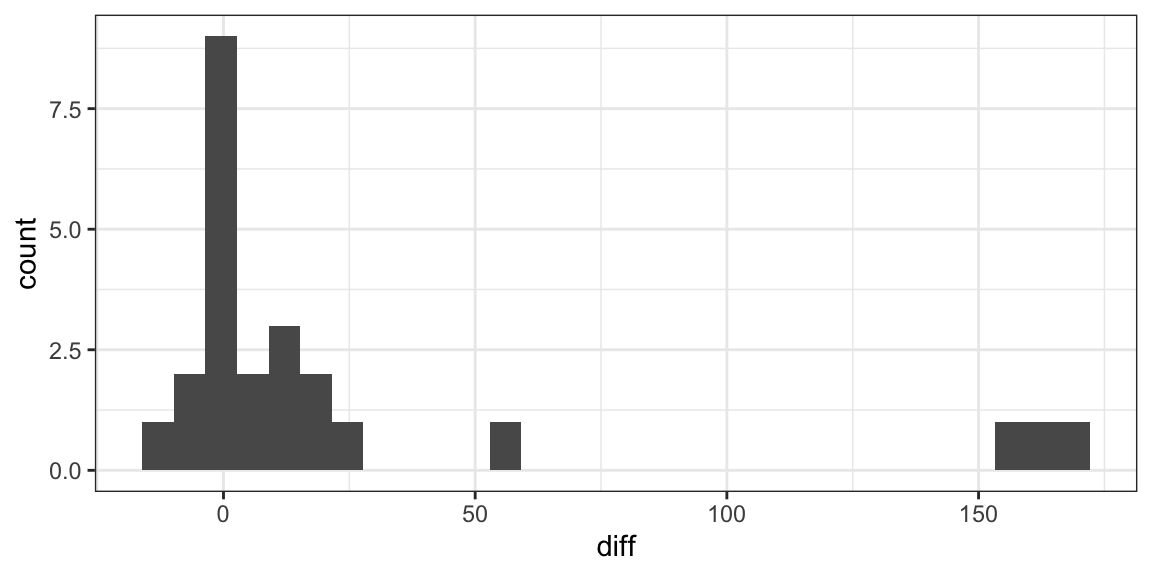
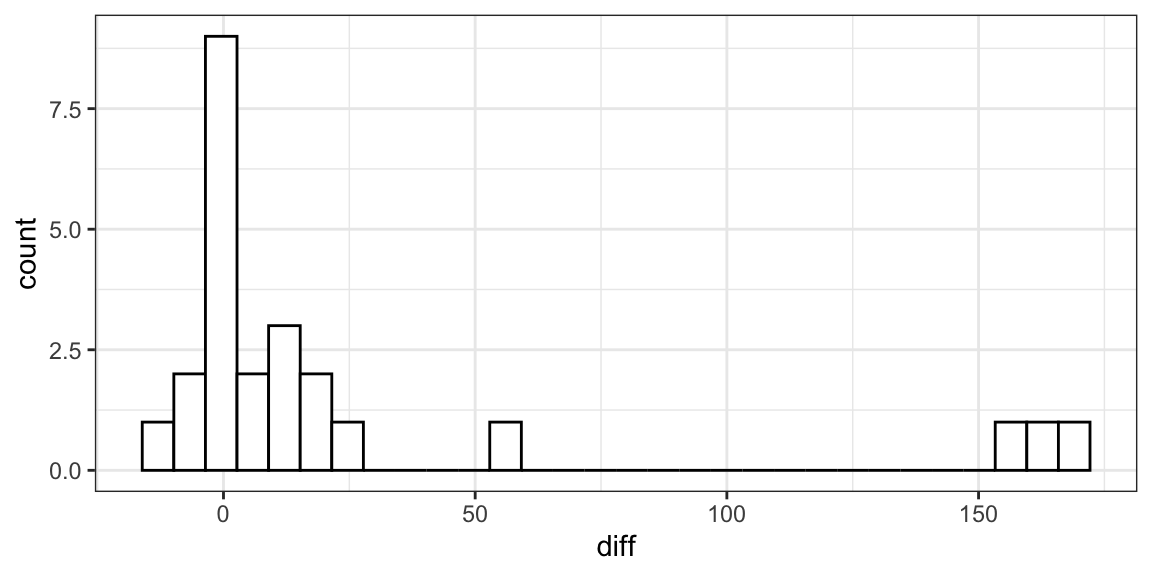
spell check

Changed region(s): [[0.125, 0.0625, 0.9688, 0.8438]]

diff --git a/docs/06_ch4/06_ch4.html b/docs/06_ch4/06_ch4.html
@@ -9,7 +9,7 @@
 <meta name="author" content="David Gerard">
 <meta name="dcterms.date" content="2026-07-08">
 
-<title>Non-parameteric Alternatives to t-tools – Stat 302: Intermediate Statistics</title>
+<title>Non-parametric Alternatives to t-tools – Stat 302: Intermediate Statistics</title>
 <style>
 /* Default styles provided by pandoc.
 ** See https://pandoc.org/MANUAL.html#variables-for-html for config info.
@@ -229,7 +229,7 @@ window.Quarto = {
 
 <header id="title-block-header" class="quarto-title-block default">
 <div class="quarto-title">
-<h1 class="title">Non-parameteric Alternatives to <span class="math inline">\(t\)</span>-tools</h1>
+<h1 class="title">Non-parametric Alternatives to <span class="math inline">\(t\)</span>-tools</h1>
 </div>
 
 
@@ -266,9 +266,9 @@ window.Quarto = {
 <section id="learning-objectives" class="level1">
 <h1>Learning Objectives</h1>
 <ul>
-<li>Recognize which non-parameteric method to use in one- and two-sample scenarios.</li>
-<li>Understand the mechanims of these non-parameteric methods.</li>
-<li>Implement these non-parameteric methods in R.</li>
+<li>Recognize which non-parametric method to use in one- and two-sample scenarios.</li>
+<li>Understand the mechanisms of these non-parametric methods.</li>
+<li>Implement these non-parametric methods in R.</li>
 </ul>
 </section>
 <section id="assumptions-of-t-tools" class="level1">
@@ -280,17 +280,17 @@ window.Quarto = {
 <li>Equal variance (if assuming <span class="math inline">\(\sigma_1^2 = \sigma_2^2\)</span>).</li>
 <li>Normality (no severe skew or outliers).</li>
 </ol></li>
-<li>Solutions when violated:</li>
-</ul>
+<li>Solutions when violated:
 <ol type="1">
 <li>Independence: Use multiple linear regression for cluster effects, or use serial correlation adjustment methods (Chapter 15).</li>
 <li>Equal variance: Use Welch’s <span class="math inline">\(t\)</span>-test (which I think you should always use anyway).</li>
 <li>Normality: This chapter.
 <ul>
-<li>Use a Wilcoxon rank sum test for an 2-sample <span class="math inline">\(t\)</span>-test alternative.</li>
+<li>Use a Wilcoxon rank sum test for a 2-sample <span class="math inline">\(t\)</span>-test alternative.</li>
 <li>Use a Wilcoxon signed-rank test for a paired <span class="math inline">\(t\)</span>-test alternative.</li>
 </ul></li>
-</ol>
+</ol></li>
+</ul>
 </section>
 <section id="case-study" class="level1">
 <h1>Case Study</h1>
@@ -334,7 +334,7 @@ $ Censored  &lt;dbl&gt; 0, 0, 0, 0, 0, 0, 0, 0, 0, 0, 0, 0, 0, 0, 0, 0, 0, 0, 0,
 <h2 class="anchored" data-anchor-id="main-idea">Main Idea</h2>
 <ul>
 <li><p>Also called the Mann-Whitney <span class="math inline">\(U\)</span>-test.</p></li>
-<li><p>Non-parameteric alternative to the two-sample <span class="math inline">\(t\)</span>-test</p>
+<li><p>Non-parametric alternative to the two-sample <span class="math inline">\(t\)</span>-test</p>
 <ul>
 <li>Use when normality is violated</li>
 <li>Can use on Ordinal Data</li>
@@ -385,7 +385,7 @@ $ Censored  &lt;dbl&gt; 0, 0, 0, 0, 0, 0, 0, 0, 0, 0, 0, 0, 0, 0, 0, 0, 0, 0, 0,
 <li><p>For large <span class="math inline">\(n\)</span> (say, each group has a sample size of at least 5 and there aren’t too many ties), <span class="math inline">\(R \sim N(\mu_R, \sigma_R^2)\)</span> <strong>if <span class="math inline">\(H_0\)</span> is true</strong>.</p>
 <ul>
 <li><p><span class="math inline">\(\mu_R\)</span> and <span class="math inline">\(\sigma_R^2\)</span> are some known values that depend just on the number of observations <span class="math inline">\(n\)</span></p></li>
-<li><p>Thus, if <span class="math inline">\(H_0\)</span> is true, <span class="math inline">\(Z = (R - \mu_R) / \sigma_r \sim N(0, 1)\)</span></p></li>
+<li><p>Thus, if <span class="math inline">\(H_0\)</span> is true, <span class="math inline">\(Z = (R - \mu_R) / \sigma_R \sim N(0, 1)\)</span></p></li>
 <li><p>Calculate the tail area probability of <span class="math inline">\(Z\)</span>.</p>
 <div class="cell" data-layout-align="center">
 <div class="cell-output-display">
@@ -405,7 +405,7 @@ $ Censored  &lt;dbl&gt; 0, 0, 0, 0, 0, 0, 0, 0, 0, 0, 0, 0, 0, 0, 0, 0, 0, 0, 0,
 <i class="callout-icon"></i>
 </div>
 <div class="callout-title-container flex-fill">
-<span class="screen-reader-only">Warning</span>Unneccesary detail
+<span class="screen-reader-only">Warning</span>Unnecessary detail
 </div>
 </div>
 <div class="callout-body-container callout-body">
@@ -621,7 +621,7 @@ Z = \frac{40.5 - 35}{\sqrt{43.84}} = 0.83
 </div>
 <p>Some comments:</p>
 <ol type="1">
-<li><p>The rank-sum statistic is different than the one we calculated because they subtract the minimum rank-sum statistic value <code>sum(1:5)</code> (the minimum possible, if all advanced students scored below all introductory students).</p>
+<li><p>The rank-sum statistic is different from the one we calculated because they subtract the minimum rank-sum statistic value <code>sum(1:5)</code> (the minimum possible, if all advanced students scored below all introductory students).</p>
 <div class="cell" data-layout-align="center">
 <div class="code-copy-outer-scaffold"><div class="sourceCode cell-code" id="cb19"><pre class="sourceCode r code-with-copy"><code class="sourceCode r"><span id="cb19-1"><a href="#cb19-1" aria-hidden="true" tabindex="-1"></a><span class="fl">40.5</span> <span class="sc">-</span> <span class="fu">sum</span>(<span class="dv">1</span><span class="sc">:</span><span class="dv">5</span>)</span></code></pre></div><button title="Copy to Clipboard" class="code-copy-button"><i class="bi"></i></button></div>
 <div class="cell-output cell-output-stdout">
@@ -773,7 +773,7 @@ $ shuffled_treatment &lt;chr&gt; "Modified", "Modified", "Conventional", "Modifi
 <li><p>Hypothesis: infants breastfed for at least one month may gain some immunity, resulting in shorter effusion than bottle-fed infants.</p></li>
 <li><p>The study pairs 24 infants matched by age, sex, socioeconomic status, and medications—one breastfed, one bottle-fed per pair.</p></li>
 <li><p>Outcome measured: duration of middle-ear effusion after the first otitis media episode.</p></li>
-<li><p>The data, from Table 9.11 of Rosner’s <em>Fundamentals of Biostatistics (Eights Edition)</em>, can be read into R with</p>
+<li><p>The data, from Table 9.11 of Rosner’s <em>Fundamentals of Biostatistics (Eighth Edition)</em>, can be read into R with</p>
 <div class="cell" data-layout-align="center">
 <div class="code-copy-outer-scaffold"><div class="sourceCode cell-code" id="cb29"><pre class="sourceCode r code-with-copy"><code class="sourceCode r"><span id="cb29-1"><a href="#cb29-1" aria-hidden="true" tabindex="-1"></a>effusion <span class="ot">&lt;-</span> <span class="fu">tribble</span>(</span>
 <span id="cb29-2"><a href="#cb29-2" aria-hidden="true" tabindex="-1"></a>  <span class="sc">~</span>pair, <span class="sc">~</span>breastfed, <span class="sc">~</span>bottle_fed,</span>
@@ -809,10 +809,10 @@ $ shuffled_treatment &lt;chr&gt; "Modified", "Modified", "Conventional", "Modifi
 <span id="cb30-2"><a href="#cb30-2" aria-hidden="true" tabindex="-1"></a>  <span class="fu">mutate</span>(<span class="at">diff =</span> bottle_fed <span class="sc">-</span> breastfed) <span class="ot">-&gt;</span></span>
 <span id="cb30-3"><a href="#cb30-3" aria-hidden="true" tabindex="-1"></a>  effusion</span></code></pre></div><button title="Copy to Clipboard" class="code-copy-button"><i class="bi"></i></button></div>
 </div></li>
-<li><p>Plotting the differences, it looks like there are some extreme outliers. There appears to be two bottle-fed babies that had a very long duration of middle-ear effusion.</p>
+<li><p>Plotting the differences, it looks like there are some extreme outliers. There appear to be three bottle-fed babies that had a very long duration of middle-ear effusion.</p>
 <div class="cell" data-layout-align="center">
 <div class="code-copy-outer-scaffold"><div class="sourceCode cell-code" id="cb31"><pre class="sourceCode r code-with-copy"><code class="sourceCode r"><span id="cb31-1"><a href="#cb31-1" aria-hidden="true" tabindex="-1"></a><span class="fu">ggplot</span>(effusion, <span class="fu">aes</span>(<span class="at">x =</span> diff)) <span class="sc">+</span></span>
-<span id="cb31-2"><a href="#cb31-2" aria-hidden="true" tabindex="-1"></a>  <span class="fu">geom_histogram</span>(<span class="at">bins =</span> <span class="dv">30</span>)</span></code></pre></div><button title="Copy to Clipboard" class="code-copy-button"><i class="bi"></i></button></div>
+<span id="cb31-2"><a href="#cb31-2" aria-hidden="true" tabindex="-1"></a>  <span class="fu">geom_histogram</span>(<span class="at">bins =</span> <span class="dv">30</span>, <span class="at">color =</span> <span class="st">"black"</span>, <span class="at">fill =</span> <span class="st">"white"</span>)</span></code></pre></div><button title="Copy to Clipboard" class="code-copy-button"><i class="bi"></i></button></div>
 <div class="cell-output-display">
 <div class="quarto-figure quarto-figure-center">
 <figure class="figure">
@@ -835,13 +835,13 @@ $ shuffled_treatment &lt;chr&gt; "Modified", "Modified", "Conventional", "Modifi
 </div>
 </div>
 </div></li>
-<li><p>Quite honestly, it might not be that bad to do a <span class="math inline">\(t\)</span>-test on the log-ratio. It appears perhaps too skewed, so I might worry a little. But we’ll try the alternative non-parameteric approach.</p></li>
+<li><p>Quite honestly, it might not be that bad to do a <span class="math inline">\(t\)</span>-test on the log-ratio. It appears perhaps too skewed, so I might worry a little. But we’ll try the alternative non-parametric approach.</p></li>
 </ul>
 </section>
 <section id="main-idea-1" class="level2">
 <h2 class="anchored" data-anchor-id="main-idea-1">Main idea:</h2>
 <ul>
-<li><p>The Wilcoxon signed-rank test is a non-parameteric alternative to the paired (one-sample) <span class="math inline">\(t\)</span>-test.</p></li>
+<li><p>The Wilcoxon signed-rank test is a non-parametric alternative to the paired (one-sample) <span class="math inline">\(t\)</span>-test.</p></li>
 <li><p>Assume data are symmetric (we’ll get back to this), but not necessarily normal (e.g., lots of outliers are possible).</p></li>
 <li><p>Then we want to test</p>
 <ul>
@@ -851,7 +851,7 @@ $ shuffled_treatment &lt;chr&gt; "Modified", "Modified", "Conventional", "Modifi
 </ul></li>
 <li><span class="math inline">\(H_A:\)</span> Median difference is non-zero</li>
 </ul></li>
-<li><p>The idea is almost the very similar as the Wilcoxon rank-sum test with two differences:</p>
+<li><p>The idea is very similar to the Wilcoxon rank-sum test, with two differences:</p>
 <ol type="1">
 <li>Rank the absolute values</li>
 <li>Add up ranks of one of the signs.</li>
@@ -859,7 +859,7 @@ $ shuffled_treatment &lt;chr&gt; "Modified", "Modified", "Conventional", "Modifi
 </ul>
 <p><img src="./06_figures/display_45_sign.svg" class="img-fluid" alt="Graphical display of calculation for signed-rank statistic">&nbsp;</p>
 <ul>
-<li><p>If the null is true and the median is 0, then <span class="math inline">\(R \sim N(\mu_R, \sigma_R^2\)</span> where <span class="math display">\[
+<li><p>If the null is true and the median is 0, then <span class="math inline">\(R \sim N(\mu_R, \sigma_R^2)\)</span> where <span class="math display">\[
 \mu_R = \frac{n(n+1)}{4}\\
 \sigma_R^2 = \frac{n(n+1)(2n+1)}{24}
 \]</span></p></li>
@@ -1428,7 +1428,7 @@ Z = \frac{R - \mu_R}{\sigma_R} \sim N(0,1)
 </div>
 </div>
 </div>
-<p>Calculate the rank-sum statistic.</p>
+<p>Calculate the signed-rank statistic.</p>
 </div>
 <div id="tabset-5-2" class="tab-pane" role="tabpanel" aria-labelledby="tabset-5-2-tab">
 <p>Rearranging, we get this table:</p>
@@ -2010,7 +2010,7 @@ Z = \frac{R - \mu_R}{\sigma_R} \sim N(0,1)
 1        7       231  0.0181        1        30 Wilcoxon signed ran… two.sided  </code></pre>
 </div>
 </div></li>
-<li><p>Thus, under the assumption of symmetry, we have evidence that breast feeding typically has shorter mid-ear effusion durations than formula babies (<span class="math inline">\(p\)</span> = 0.018). We estimate the median duration to be 7 days shorter for breastfed babies, with a 95% confidence interval of 1 day shorter to 30 days shorter.</p></li>
+<li><p>Thus, under the assumption of symmetry, we have evidence that breastfed babies typically have shorter mid-ear effusion durations than formula-fed babies (<span class="math inline">\(p\)</span> = 0.018). We estimate the median duration to be 7 days shorter for breastfed babies, with a 95% confidence interval of 1 day shorter to 30 days shorter.</p></li>
 </ul>
 <div class="tabset-margin-container"></div><div class="panel-tabset">
 <ul class="nav nav-tabs" role="tablist"><li class="nav-item" role="presentation"><a class="nav-link active" id="tabset-6-1-tab" data-bs-toggle="tab" data-bs-target="#tabset-6-1" role="tab" aria-controls="tabset-6-1" aria-selected="true" href="">Exercise</a></li><li class="nav-item" role="presentation"><a class="nav-link" id="tabset-6-2-tab" data-bs-toggle="tab" data-bs-target="#tabset-6-2" role="tab" aria-controls="tabset-6-2" aria-selected="false" href="">Solution</a></li></ul>
@@ -2051,7 +2051,7 @@ Z = \frac{R - \mu_R}{\sigma_R} \sim N(0,1)
 <section id="when-symmetry-is-violated" class="level2">
 <h2 class="anchored" data-anchor-id="when-symmetry-is-violated">When symmetry is violated</h2>
 <ul>
-<li><p>If you are randomly assigning treatments to pairs of units (e.g., if we would have randomly assigned which baby in a pair gets formula and which gets breast feeding), then the differences under the null are theoretically symmetric about 0. See Section 6.10 of <span class="citation" data-cites="lehmann2005testing">Lehmann and Romano (<a href="#ref-lehmann2005testing" role="doc-biblioref">2005</a>)</span> (I am including a reference because I don’t think this is often taught).</p></li>
+<li><p>If you are randomly assigning treatments to pairs of units (e.g., if we had randomly assigned which baby in a pair gets formula and which gets breast milk), then the differences under the null are theoretically symmetric about 0. See Section 6.10 of <span class="citation" data-cites="lehmann2005testing">Lehmann and Romano (<a href="#ref-lehmann2005testing" role="doc-biblioref">2005</a>)</span> (I am including a reference because I don’t think this is often taught).</p></li>
 <li><p>Thus, under randomized experiments, hypotheses are:</p>
 <ul>
 <li><span class="math inline">\(H_0:\)</span> No treatment effect</li>
@@ -2059,7 +2059,7 @@ Z = \frac{R - \mu_R}{\sigma_R} \sim N(0,1)
 </ul></li>
 <li><p>Thus, under random assignment in paired designs, the Wilcoxon signed-rank test exactly tests for what we are interested in.</p></li>
 <li><p>In observational studies, if symmetry is violated, the Wilcoxon signed-rank test actually tests the null that the <em>pseudomedian</em> is 0 versus the alternative that it is non-zero.</p></li>
-<li><p>The <strong>pseudomedian</strong> is the median of the distribution of <span class="math inline">\((X_1 + X_2)/2\)</span> where <span class="math inline">\(X_1\)</span> and <span class="math inline">\(X_2\)</span> are drawn indpendently from the original distribution.</p></li>
+<li><p>The <strong>pseudomedian</strong> is the median of the distribution of <span class="math inline">\((X_1 + X_2)/2\)</span> where <span class="math inline">\(X_1\)</span> and <span class="math inline">\(X_2\)</span> are drawn independently from the original distribution.</p></li>
 <li><p>If the distribution is symmetric, then the pseudomedian is the same as the median. Under skew, they differ.</p></li>
 <li><p>E.g., we can approximate the pseudomedian of the exponential distribution (a skewed distribution) by</p>
 <div class="cell" data-layout-align="center">
@@ -2095,7 +2095,7 @@ Z = \frac{R - \mu_R}{\sigma_R} \sim N(0,1)
 <li>Count the number of positive values. Call this count <span class="math inline">\(X\)</span>.</li>
 <li>Count the number of non-zero values. Call this count <span class="math inline">\(n\)</span>.</li>
 <li>Under the null, <span class="math inline">\(X \sim \mathrm{Binom}(n, 1/2)\)</span></li>
-<li>Run a test for proportions (STAT-202 stuff) using <span class="math inline">\(X\)</span> with the the null that <span class="math inline">\(p = 0.5\)</span>.</li>
+<li>Run a test for proportions (STAT-202 stuff) using <span class="math inline">\(X\)</span> with the null that <span class="math inline">\(p = 0.5\)</span>.</li>
 </ul></li>
 <li><p>E.g., from our effusion data, the number of positive and number of non-zero values are:</p>
 <div class="cell" data-layout-align="center">
@@ -2122,7 +2122,7 @@ Z = \frac{R - \mu_R}{\sigma_R} \sim N(0,1)
 1    0.696        16  0.0931        23    0.471     0.868 Exact bin… two.sided  </code></pre>
 </div>
 </div></li>
-<li><p>This shows us we have only week evidence of a non-zero median.</p></li>
+<li><p>This shows us we have only weak evidence of a non-zero median.</p></li>
 <li><p>This is an example of how the sign test has <strong>very low power</strong>, so folks don’t like to use it.</p></li>
 <li><p>But it has the fewest assumptions (just independence of units) of a test that you will typically see.</p></li>
 </ul>